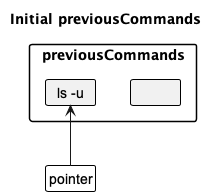
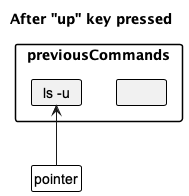
Edit state diagrams

diff --git a/docs/DeveloperGuide.md b/docs/DeveloperGuide.md
@@ -247,7 +247,10 @@ Below is the sequence diagram for an execution of `mark <index>`, assuming `<ind
 
 The list feature filters the displayed task list based on the filters entered by user. Its mechanism is facilitated by `ListCommand` and `ListCommandParser`, as well as their subclasses (E.g. `ListDeadlineCommand`, `ListDeadlineCommandParser`).
 
-Multiple filters can be applied in a single `ListCommand`. For example, `ls -u --module CS2103T` would list all tasks that are unmarked and under the `Module` "CS2103T".
+Multiple filters can be applied in a single `ListCommand`. For example, `ls -u --module CS2103T` would list all tasks that are unmarked and under the `Module` "CS2103T". 
+
+`ListCommand` extends `Command`, overriding the `execute` method. To allow for multiple filters, the constructor of `ListCommand` takes in `List<Predicate<Task>>`.
+The list of predicates will subsequently be reduced into a single predicate. 
 
 This table summarizes the respective flags that users can use to apply filters of their choice.
 
@@ -269,12 +272,10 @@ Words in `UPPER_CASE` are values of parameters to be supplied by the user
 <div markdown="block" class="alert alert-info">
 **:information_source: Note:**
 Flags that are labelled with a `*` are commands that expect a parameter, as seen in the Format column. <br>
-These commands have a corresponding Parser that implements `Parser<ListModuleCommand>` to parse the parameter passed in. Each Parser implements the `parse` method in `Parser` interface. In the process of that, validity checks are conducted. <br>
-Example of validity check: 
-* In `ListDeadlineCommandParser`, the argument is checked to be numbers be in `YYYY-MM-DD` format 
+These commands have a corresponding `Parser` that implements `Parser<ListModuleCommand>` to parse the parameter passed in. Each `Parser` implements the `parse` method in `Parser` interface. In which, validity checks are conducted. <br>
+Example: 
+* In `ListDeadlineCommandParser`, argument is verified to contain only numbers in `YYYY-MM-DD` format 
 </div>
-
-`ListCommand` extends `Command`, overriding the `execute` method. To allow for multiple filters, the constructor of `ListCommand` takes in `List<Predicate<Task>>`.
 
 This feature uses the following methods from the `Model` interface: 
 * `Model#updateFilteredTaskList`: Updates the current task list by applying a filter as indicated by the given predicate `Predicate<Task>`. The GUI will be updated accordingly to display the filtered task list. 
@@ -350,7 +351,7 @@ empty.
 command, `CommandBox#handleButtonPressed(KeyEvent)` is called, which in turn calls `CommandHistory#add(String)` to
 stores this command into `previousCommands`.
 
-![State diagram 1 of up/down key](images/UpDownState1.png)
+![State diagram 1 of up/down key](images/UpDownState1-0.png)
 
 **Step 3.** The user presses on the `up` key to return to the previously entered command. This action calls
 the `CommandHistory#up()` which will shift `pointer` once to the left, pointing it to the previous command in history,
@@ -363,7 +364,7 @@ which will shift `pointer` once to the right. Since the `pointer` is already poi
 there are no more commands to be returned to.
 Hence, the command box will be cleared.
 
-![State diagram 1 of up/down key](images/UpDownState1.png)
+![State diagram 3 of up/down key](images/UpDownState3.png)
 
 The following activity diagram summarizes what happens when a user clicks on the `up`/`down` keys.
 
